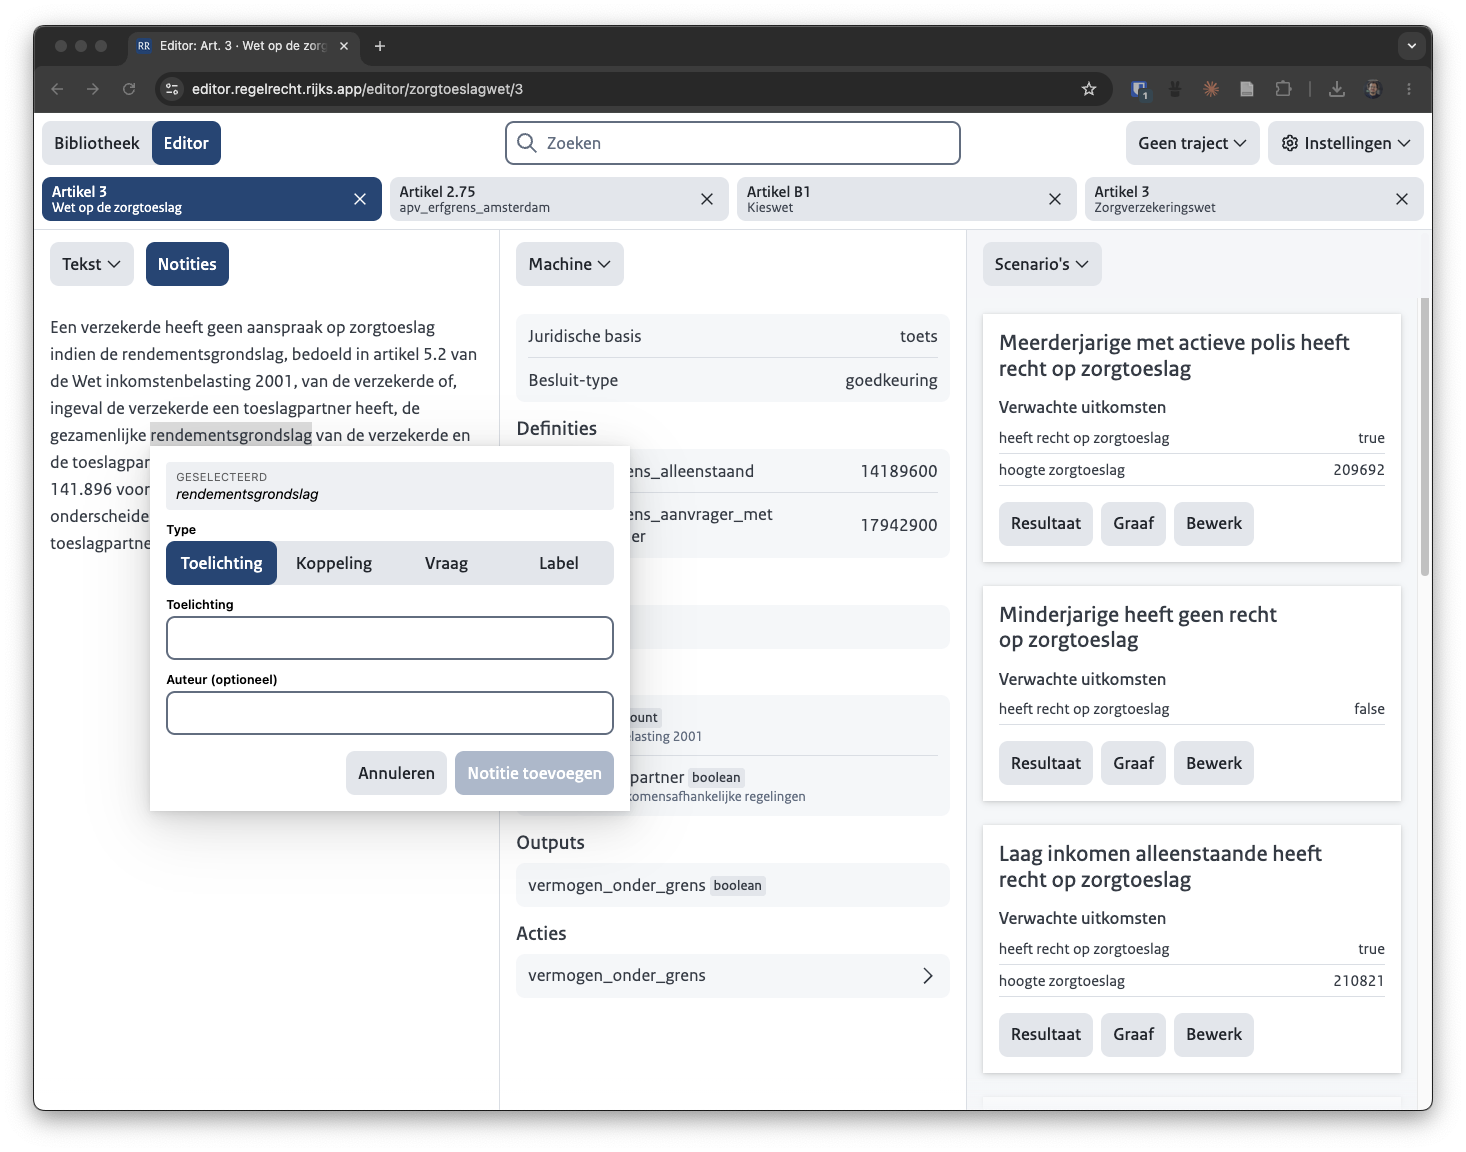
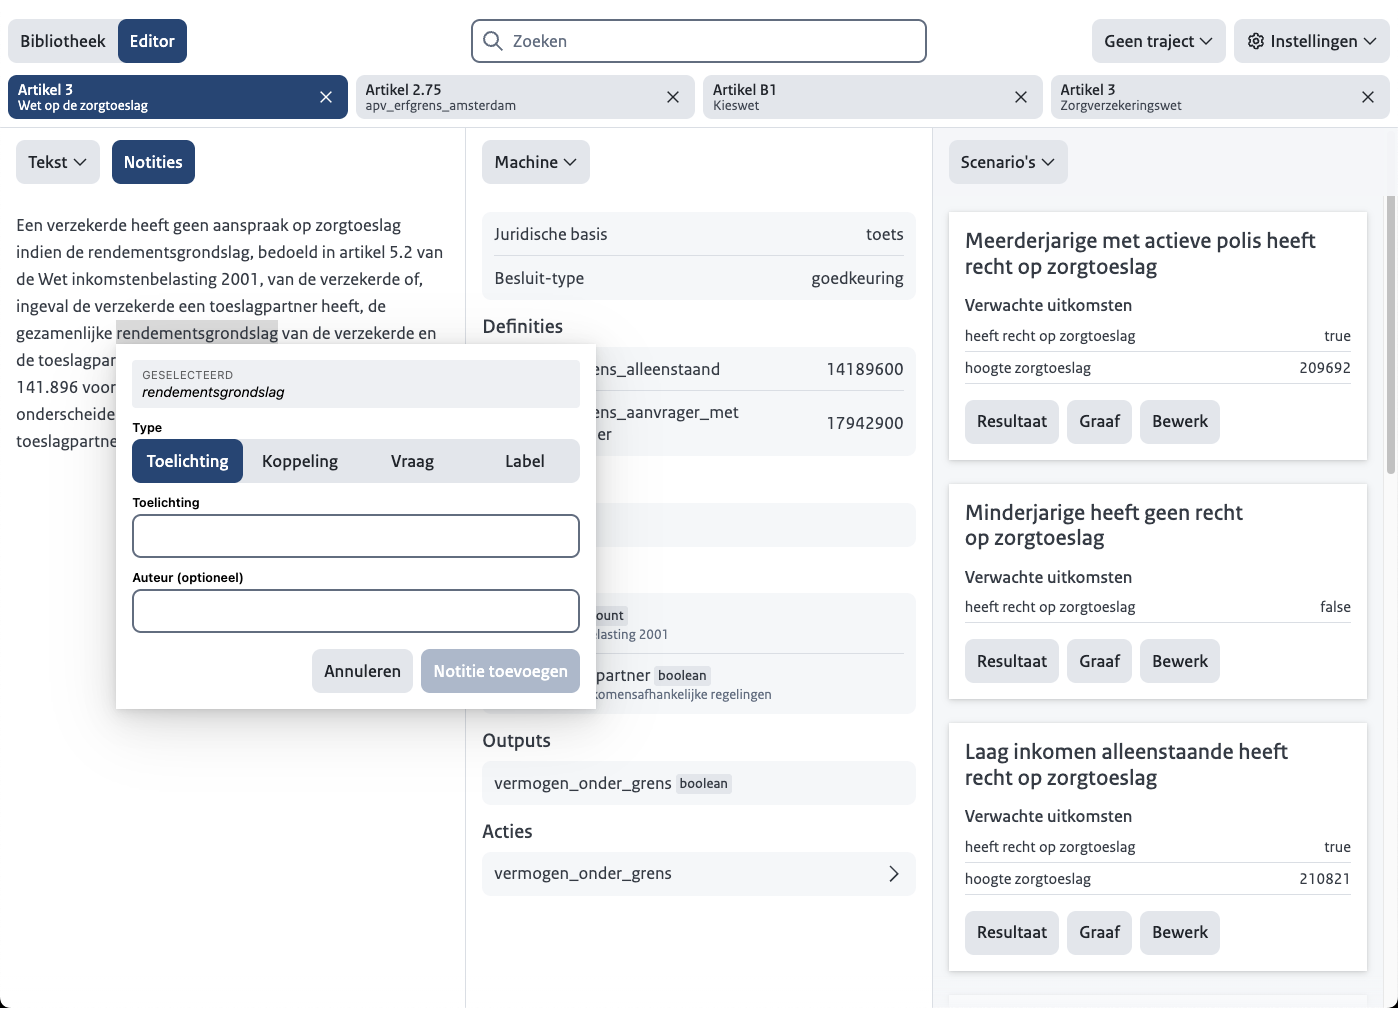
docs: screenshots op de landingspagina uit de nieuwe demo
De twee screenshots van het regeldashboard en de simulatie kwamen uit de
POC: een venster op ui.lac.apps.digilab.network met "Burger.nl" in de
balk. Die schermen bestaan nu in de demo zelf, als /portaal en
/simulatie, dus ze zijn daar opnieuw geschoten.

Alle drie zijn op dezelfde manier uitgesneden: alleen de viewport van de
applicatie, met ronde hoeken en zonder browserframe. Daarmee vallen ook
de Chrome-zijbalk, de extensiebalk met profielfoto en de localhost-URL
weg, die geen van alle op een publieke pagina thuishoren.

Ze delen nu één beeldverhouding, zodat ze in hun kolom even hoog staan.
De editor-opname is daarvoor bijgevuld en niet aangesneden: elke rand
draagt daar inhoud. De bronresolutie blijft per beeld verschillen, want
Astro maakt de varianten van 600 tot 1800px toch zelf, en opschalen
levert bytes zonder detail.

De "Live demo"-link achter de simulatie wees nog naar dezelfde
POC-omgeving en wijst nu naar demo.regelrecht.rijks.app/simulatie.

Claude-Session: https://claude.ai/code/session_014fosiuTLR2wmjWAUiLsEFK

Changed region(s): [[0.0, 0.0, 1.0, 1.0], [0.5844, 0.3951, 0.6459, 0.4559]]

diff --git a/docs/src/lib/landing-content.ts b/docs/src/lib/landing-content.ts
@@ -312,7 +312,7 @@ export const content: Record<'nl' | 'en', LandingContent> = {
           meta: 'Wat-als-analyse',
           link: {
             label: 'Live demo',
-            href: 'https://ui.lac.apps.digilab.network/simulation',
+            href: 'https://demo.regelrecht.rijks.app/simulatie',
           },
           text: 'Een omgeving waarin de gevolgen van nieuwe wetgeving doorgerekend zouden kunnen worden, voordat ze in werking treden. Bedoeld om maatschappelijke impact en onbedoelde effecten zichtbaar te maken.',
         },
@@ -328,7 +328,7 @@ export const content: Record<'nl' | 'en', LandingContent> = {
       lede: 'Wat zouden de mogelijkheden van het RegelRecht-ecosysteem kunnen zijn? Een paar denkrichtingen voor transparante regeltoepassing, wetgevingstesting en de werkomgeving van de juridische experts zelf.',
       cases: [
         {
-          img: '/burger-nl-screenshot.png',
+          img: '/portaal-screenshot.png',
           alt: 'Schermafbeelding van een persoonlijk regeldashboard: een lijst met toeslagen en uitkeringen waarbij per regel de herkomst in de wet wordt getoond.',
           h: 'Persoonlijk regeldashboard',
           p: 'Wat als burgers op één plek al hun toeslagen, uitkeringen en verplichtingen zouden kunnen zien? Elke regel zou dan traceerbaar kunnen zijn terug naar de machine-uitvoerbare wetgeving, met volledige transparantie over hoe besluiten tot stand komen.',
@@ -769,7 +769,7 @@ export const content: Record<'nl' | 'en', LandingContent> = {
           meta: 'What-if analysis',
           link: {
             label: 'Live demo',
-            href: 'https://ui.lac.apps.digilab.network/simulation',
+            href: 'https://demo.regelrecht.rijks.app/simulatie',
           },
           text: 'An environment where the consequences of new legislation could be modelled before it takes effect, to surface societal impact and unintended effects.',
         },
@@ -785,7 +785,7 @@ export const content: Record<'nl' | 'en', LandingContent> = {
       lede: 'What could the RegelRecht ecosystem make possible? A handful of directions for transparent rule application, legislative testing, and the working environment of the legal experts themselves.',
       cases: [
         {
-          img: '/burger-nl-screenshot.png',
+          img: '/portaal-screenshot.png',
           alt: 'Screenshot of a personal rules dashboard: a list of benefits and allowances where each rule shows its origin in the law.',
           h: 'Personal rules dashboard',
           p: 'What if citizens could see all their benefits, allowances and obligations in one place? Every rule could then be traceable back to the machine-executable legislation, with full transparency about how decisions are reached.',
